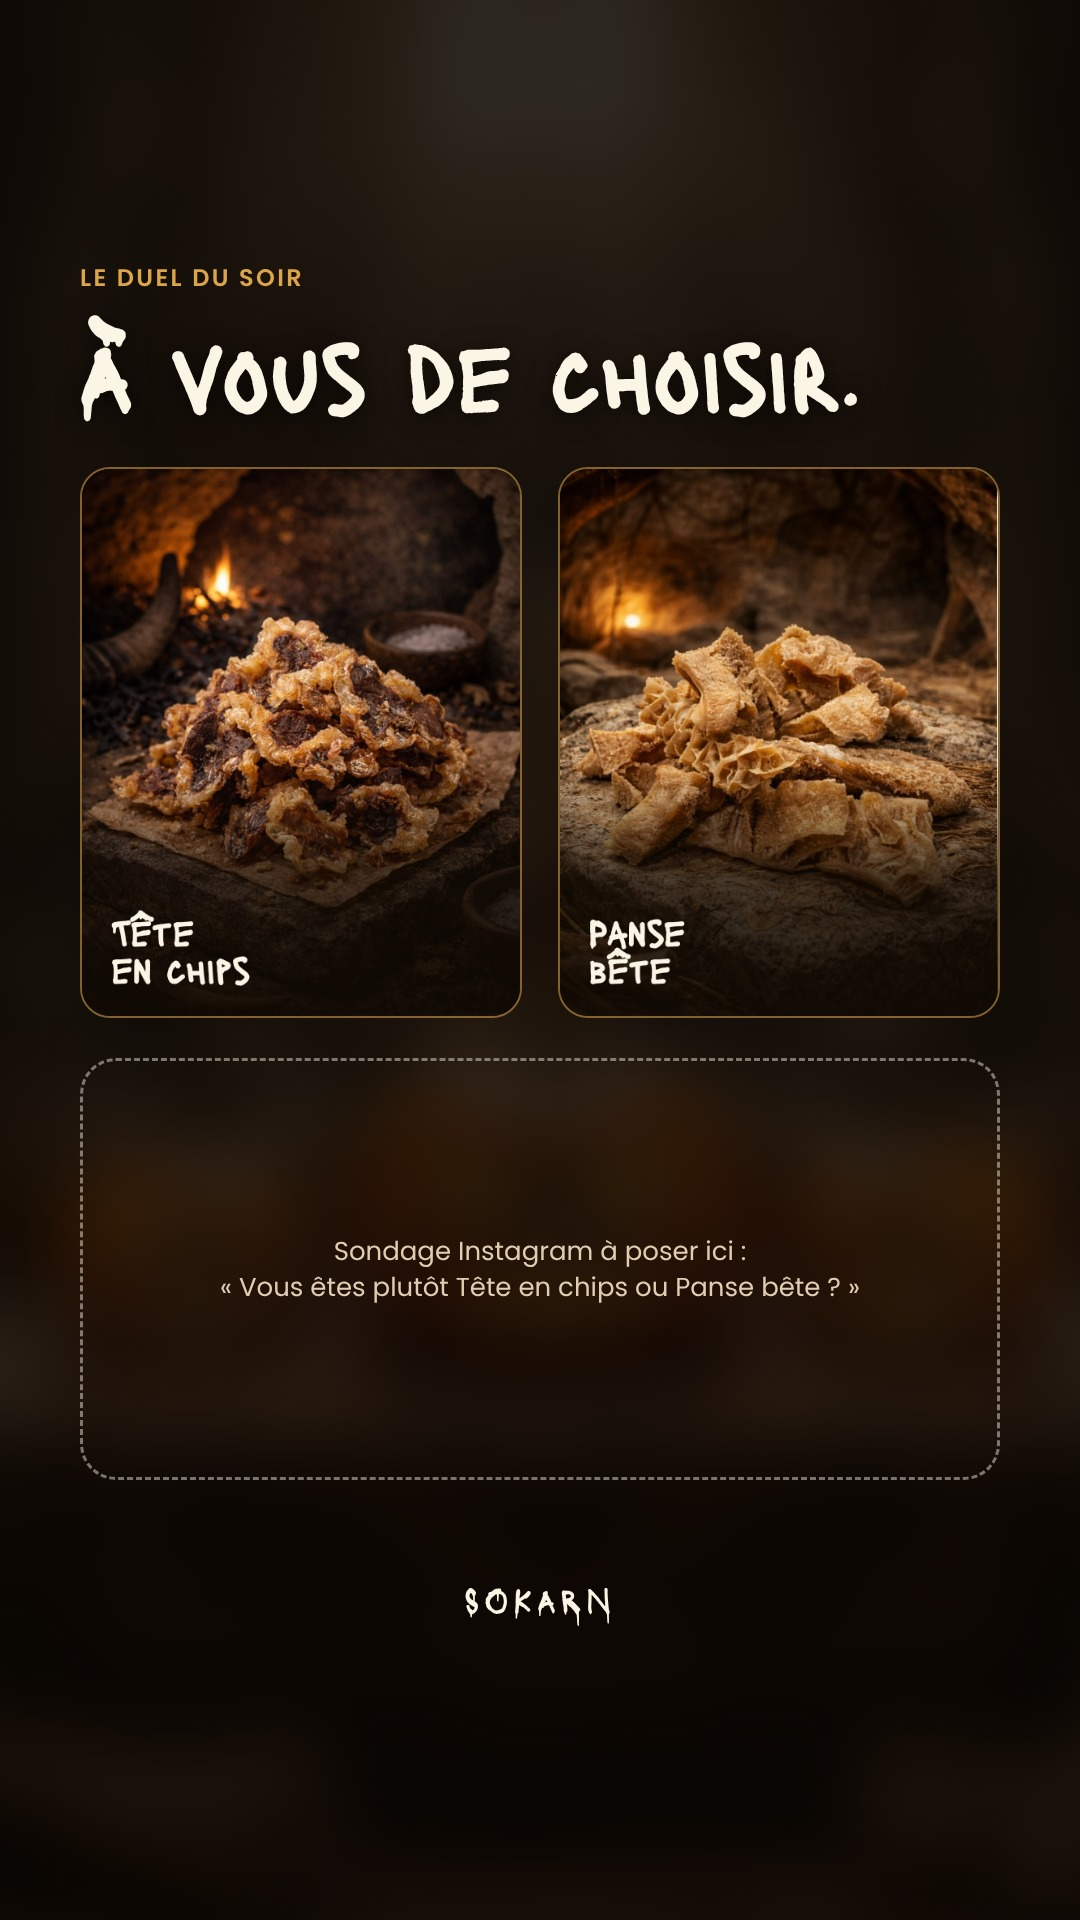
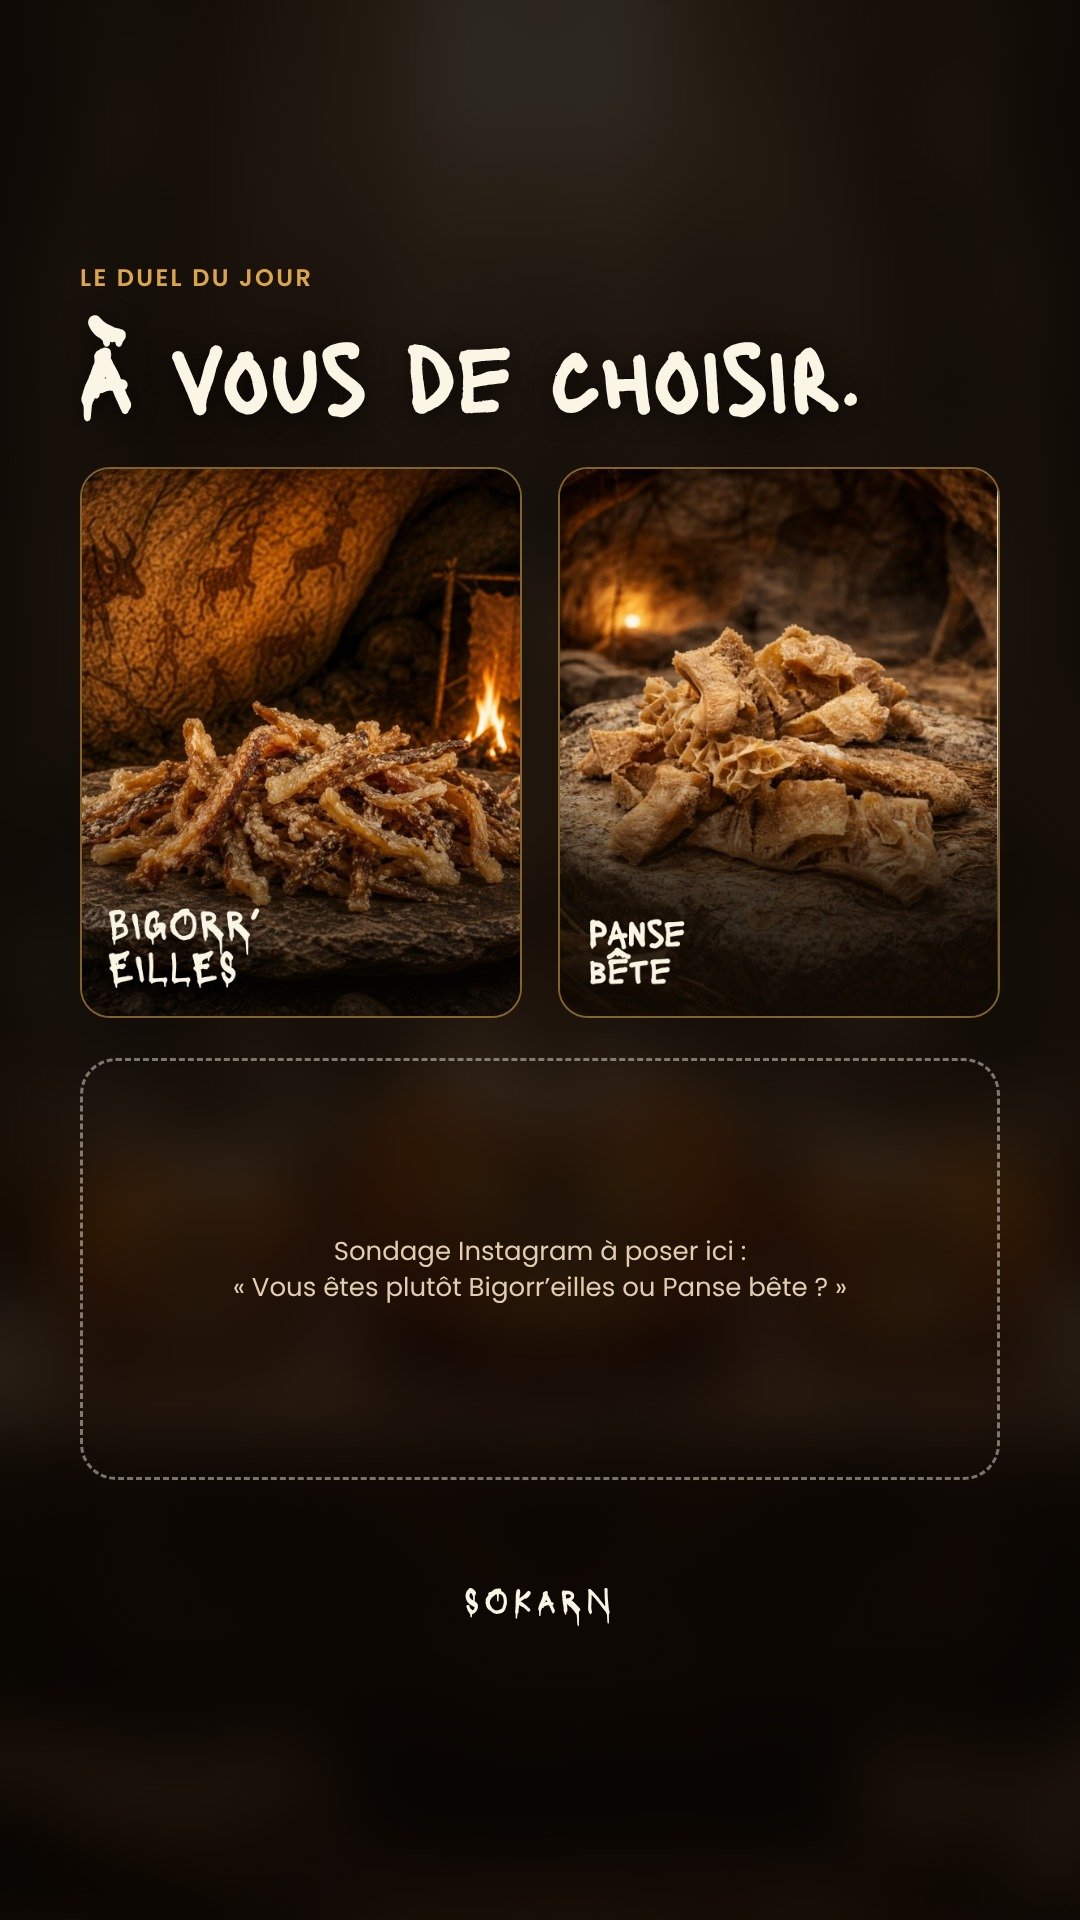
sokarn

Changed region(s): [[0.0611, 0.2188, 0.4889, 0.5312], [0.2139, 0.6562, 0.7944, 0.6875], [0.2444, 0.125, 0.275, 0.1562]]

diff --git a/espace-client/sokarn-k7m2x9/index.html b/espace-client/sokarn-k7m2x9/index.html
@@ -368,8 +368,8 @@ const POSTS = [
    demande:"Vos deux réponses face caméra, dix secondes chacune. Un désaccord entre vous est idéal.",
    texte:"Écran 1 : « Question qu'on se pose souvent entre nous : si tu ne devais garder qu'un seul produit Sokarn pour tout l'automne, ce serait lequel ? »\nÉcran 2 : votre réponse et pourquoi.\nÉcran 3 : « Et vous ? »", tags:""},
   {id:"s12", date:"Lundi 26 octobre, 12h30", titre:"Vos réponses - Story", resa:"Instagram, stories", format:"3 écrans", pilier:"La communauté",
-   visuel:"Écran 1 : trois ou quatre réponses reçues, en captures.\nÉcran 2 : le produit le plus cité, avec le lien vers sa fiche.\nÉcran 3 : le produit à découvrir ensuite, avec le lien vers sa fiche.",
-   texte:"Écran 1 : « Vous avez été nombreuses et nombreux à répondre. »\nÉcran 2 : « Le grand gagnant, c'est… »\nÉcran 3 : « Vous avez aimé celui-là ? Alors vous aimerez sûrement… » suivi du produit complémentaire et du lien vers sa fiche.", tags:""},
+   visuel:"Écran 1 : rappel de la question posée samedi, puis trois réponses reçues, anonymisées.\nÉcran 2 : le Saindoux de Porc Noir de Bigorre en photo, avec le sticker lien vers sa fiche.\nÉcran 3 : l'Écorce de Porc Noir de Bigorre en photo, sticker lien vers sa fiche à poser au montage.",
+   texte:"Écran 1 : « Vous avez été nombreuses et nombreux à répondre. » puis le rappel : « Si vous ne deviez garder qu'un seul produit Sokarn pour tout l'automne, ce serait lequel ? »\nÉcran 2 : « Le grand gagnant, c'est… Le Saindoux de Porc Noir de Bigorre. Cité dans une réponse sur trois. »\nÉcran 3 : « Vous avez aimé celui-là ? Alors vous aimerez sûrement… L'Écorce de Porc Noir de Bigorre. Le support idéal pour y étaler le saindoux. Votre idée, pas la nôtre. »", tags:""},
   {id:"s10", date:"Mardi 27 octobre, 18h30", titre:"Le Crêp'Karn - Reel", resa:"Instagram, TikTok, Facebook", format:"Reel, 20 à 30 secondes", pilier:"Le produit et ses usages",
    visuel:"Recette filmée en plan fixe au-dessus du plan de travail : poudre versée, œufs ajoutés, mélange, pâte dans la poêle, retournement, assiette finie.\nRythme rapide, musique entraînante.\nTextes à l'écran : « De la farine de viande », « En crêpes », « 71,5 g de protéines pour 100 g ».",
    demande:"Soit une vidéo de recette de crêpes que vous auriez déjà filmée, soit un envoi de Crêp'Karn pour que je filme la recette moi-même.",
@@ -391,9 +391,9 @@ const POSTS = [
    texte:"La question qu'on nous pose le plus souvent : d'où vient la viande ? 🐂\n\nRéponse : d'éleveuses et d'éleveurs qu'on connaît, à quelques kilomètres de l'atelier. Pas d'une centrale d'achat, pas d'un pays qu'on préfère ne pas nommer sur l'emballage.\n\nLes seules exceptions, ce sont les viandes qu'on ne trouve pas ici. Le kangourou ne court pas encore dans les Pyrénées 🦘.\n\nC'est plus cher à produire. C'est aussi la seule façon de faire qui nous intéresse 🏔",
    tags:"#circuitcourt #producteurlocal #elevage #hautespyrenees #madeinfrance #artisanfrancais #tracabilite #viandesechee #occitanie #savoirfaire #keto #carnivore"},
   {id:"s17", date:"Samedi 31 octobre, 11h", titre:"Halloween et lancement de la newsletter - Story", resa:"Instagram, stories", format:"3 écrans", pilier:"La communauté et la conversion",
-   visuel:"Écran 1 : l'autel d'Halloween.\nÉcran 2 : le sondage, avec les deux photos produits de la publication du 28 octobre.\nÉcran 3 : annonce de la newsletter, avec le code de bienvenue et le sticker lien vers le formulaire d'inscription.\nLes trois fonds sont prêts ci-dessous, il ne reste qu'à poser les stickers.",
+   visuel:"Écran 1 : l'autel d'Halloween.\nÉcran 2 : le sondage, Bigorr’eilles contre Panse bête. La Tête en chips, prévue au départ, est en rupture de stock : elle a été remplacée pour ne pas envoyer la tribu vers un produit introuvable.\nÉcran 3 : annonce de la newsletter, avec le code de bienvenue et le sticker lien vers le formulaire d'inscription.\nLes trois fonds sont prêts ci-dessous, il ne reste qu'à poser les stickers.",
    demande:"La mécanique du code de bienvenue : pourcentage ou montant fixe, montant minimum de commande, durée de validité, produits éventuellement exclus.",
-   texte:"Écran 1 : « Joyeux Halloween de la part de la tribu 🎃 »\nÉcran 2, sondage : « Vous êtes plutôt Tête en chips ou Panse bête ? »\nÉcran 3 : « Notre newsletter arrive. Un code de bienvenue est offert à l'inscription, valable une fois, que vous soyez déjà client·e ou pas encore. »", tags:""}
+   texte:"Écran 1 : « Joyeux Halloween de la part de la tribu 🎃 »\nÉcran 2, sondage : « Vous êtes plutôt Bigorr’eilles ou Panse bête ? »\nÉcran 3 : « Notre newsletter arrive. Un code de bienvenue est offert à l'inscription, valable une fois, que vous soyez déjà client·e ou pas encore. »", tags:""}
 ];
 
 const TACHES = [
@@ -416,7 +416,8 @@ const TACHES = [
     {id:"w47", t:"Suivi e-commerce Google Analytics réparé", d:"Couche de données activée le 8 octobre, les événements partent bien du site. Reste à créer les balises GA4 dans Tag Manager pour qu'ils soient reçus, sans quoi Analytics continue d'afficher zéro euro"},
     {id:"w49", t:"Conteneur Tag Manager propre à Sokarn créé", d:"Compte ouvert sous une adresse Google appartenant à Sokarn, pas sous celle de Manon, pour que la mesure reste chez vous après la mission. Le conteneur actuel ne contient qu'une balise Google et n'est plus entretenu"},
     {id:"w50", t:"Bascule vers le nouveau conteneur, dans l'ordre", d:"Construire le conteneur entier, balise Google et balises d'événements, tester en mode aperçu, publier, et seulement ensuite changer l'identifiant dans l'extension WordPress. L'inverse crée un trou dans les données"},
-    {id:"w48", t:"Écart de comptage du trafic corrigé", d:"Les visites mesurées ne se recoupent pas avec les commandes : bandeau de consentement ou balise incomplète"}
+    {id:"w48", t:"Écart de comptage du trafic corrigé", d:"Les visites mesurées ne se recoupaient pas avec les commandes. Cause identifiée le 23 octobre : trois systèmes de mesure Google tournaient en parallèle, MonsterInsights, le module Analytics de Site Kit et le conteneur. Corrigé en ne gardant que Tag Manager"},
+    {id:"w51", t:"Pixel Meta et Brevo soumis au consentement", d:"Complianz délègue la catégorie marketing à Tag Manager, mais le pixel est chargé directement par l'extension Facebook for WooCommerce, hors du conteneur : il dépose son cookie avant tout choix du visiteur. Même situation pour Brevo. À traiter le 30 octobre, une fois la campagne terminée, pour ne pas casser l'API de conversions en pleine diffusion"}
   ]},
   {g:"Conversion", items:[
     {id:"w14", t:"Bloc d'inscription à la newsletter en ligne", d:"Page d'accueil et pied de page, avec consentement"},
